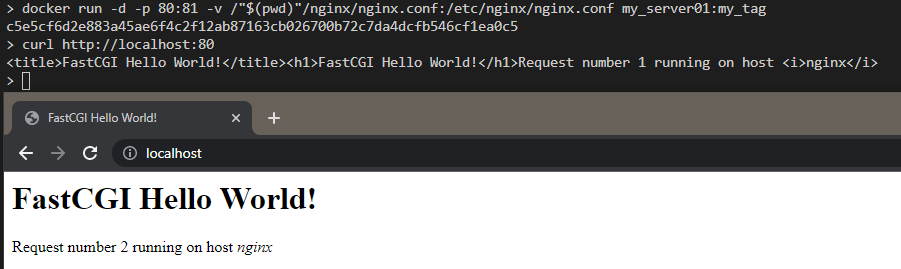
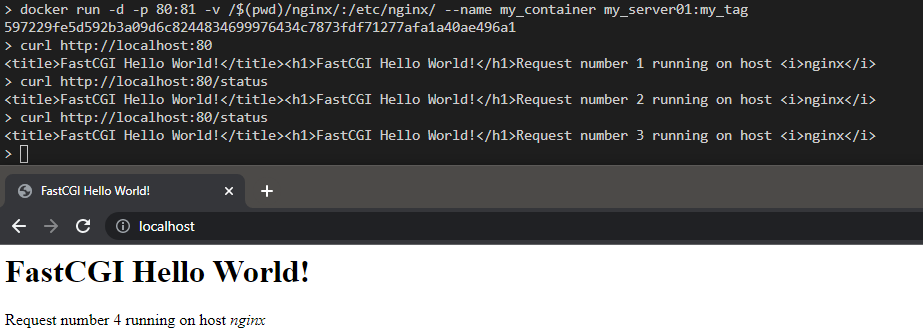
develop/part4 - mounting works, screenshots are upated and report is updated

diff --git a/src/report.md b/src/report.md
@@ -175,9 +175,9 @@
 
 ![text](screenshots/part4/7dockerRunAndResult.PNG)
 
-![text](screenshots/part4/8confWithRedirection.PNG)
+![text](screenshots/part4/8confWithStatus.PNG)
 
-![text](screenshots/part4/9restartWithRedirectionAndResult.PNG)
+![text](screenshots/part4/9restartWithStatusAndResult.PNG)
 
 
 ## Part 5. Dockle
